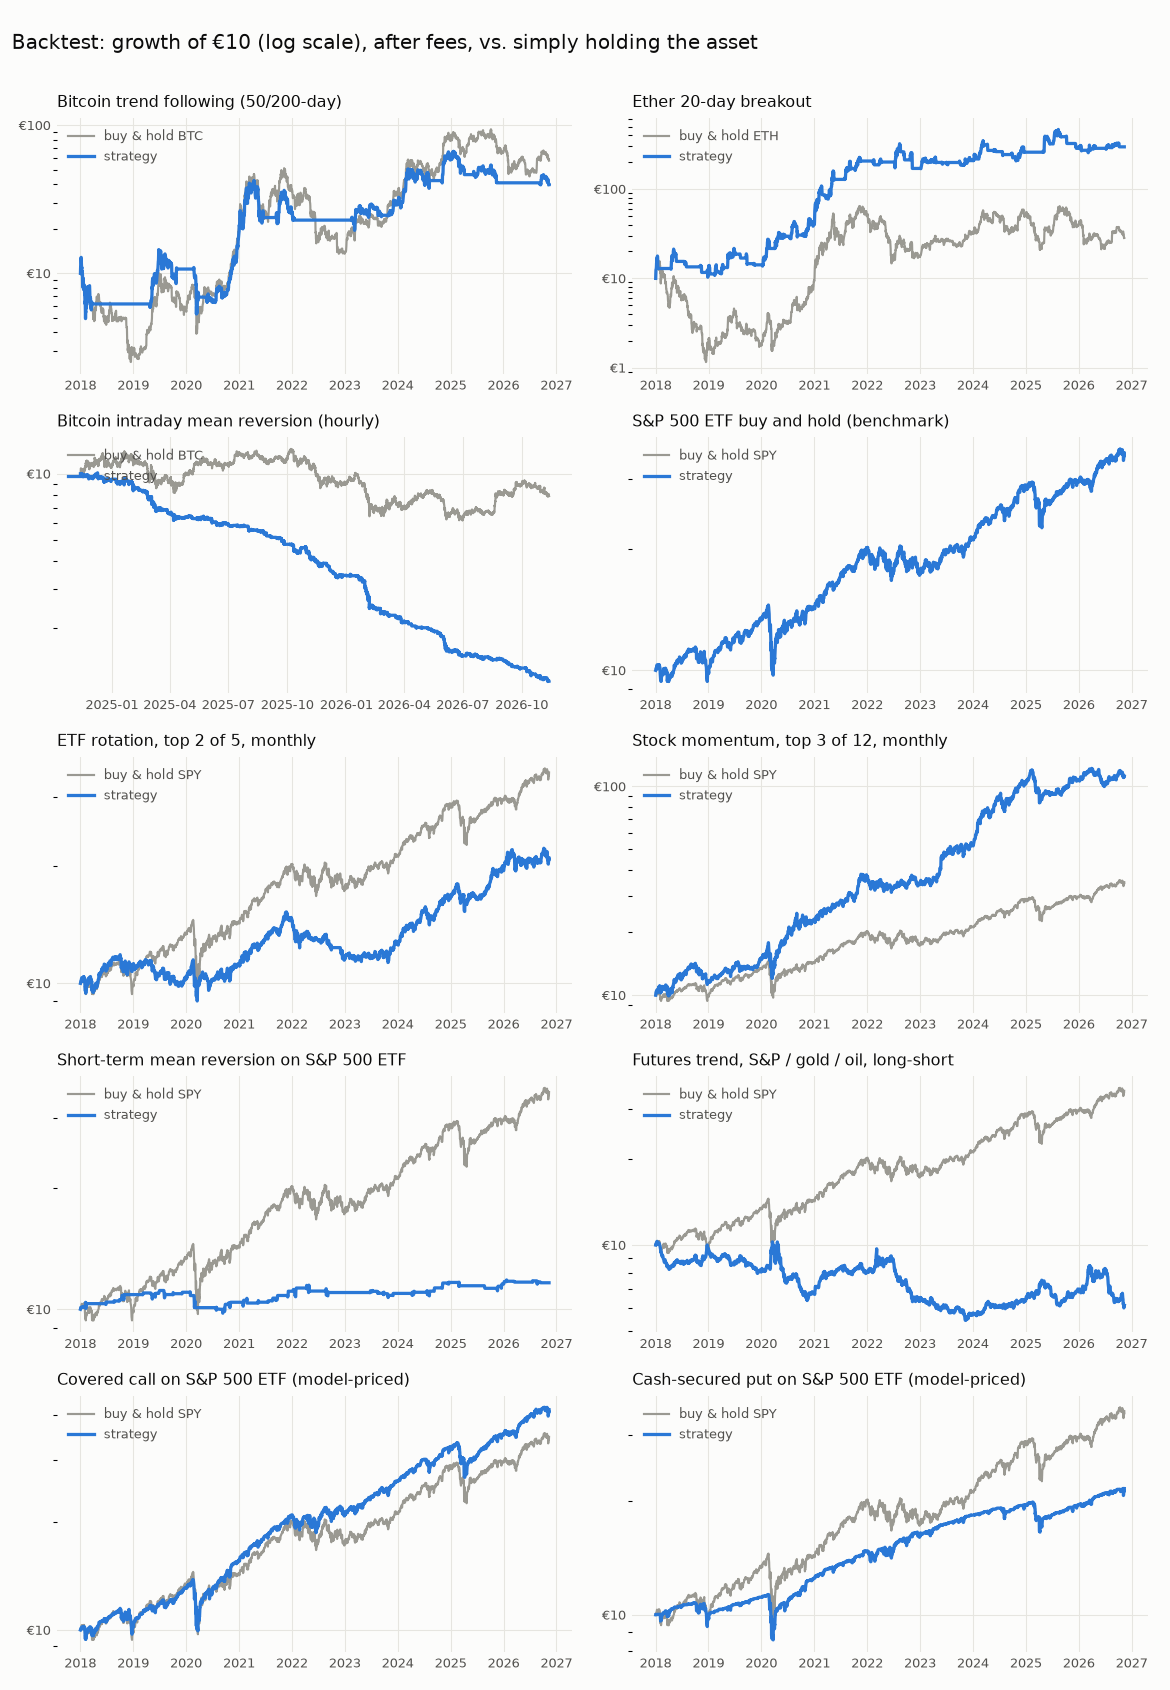
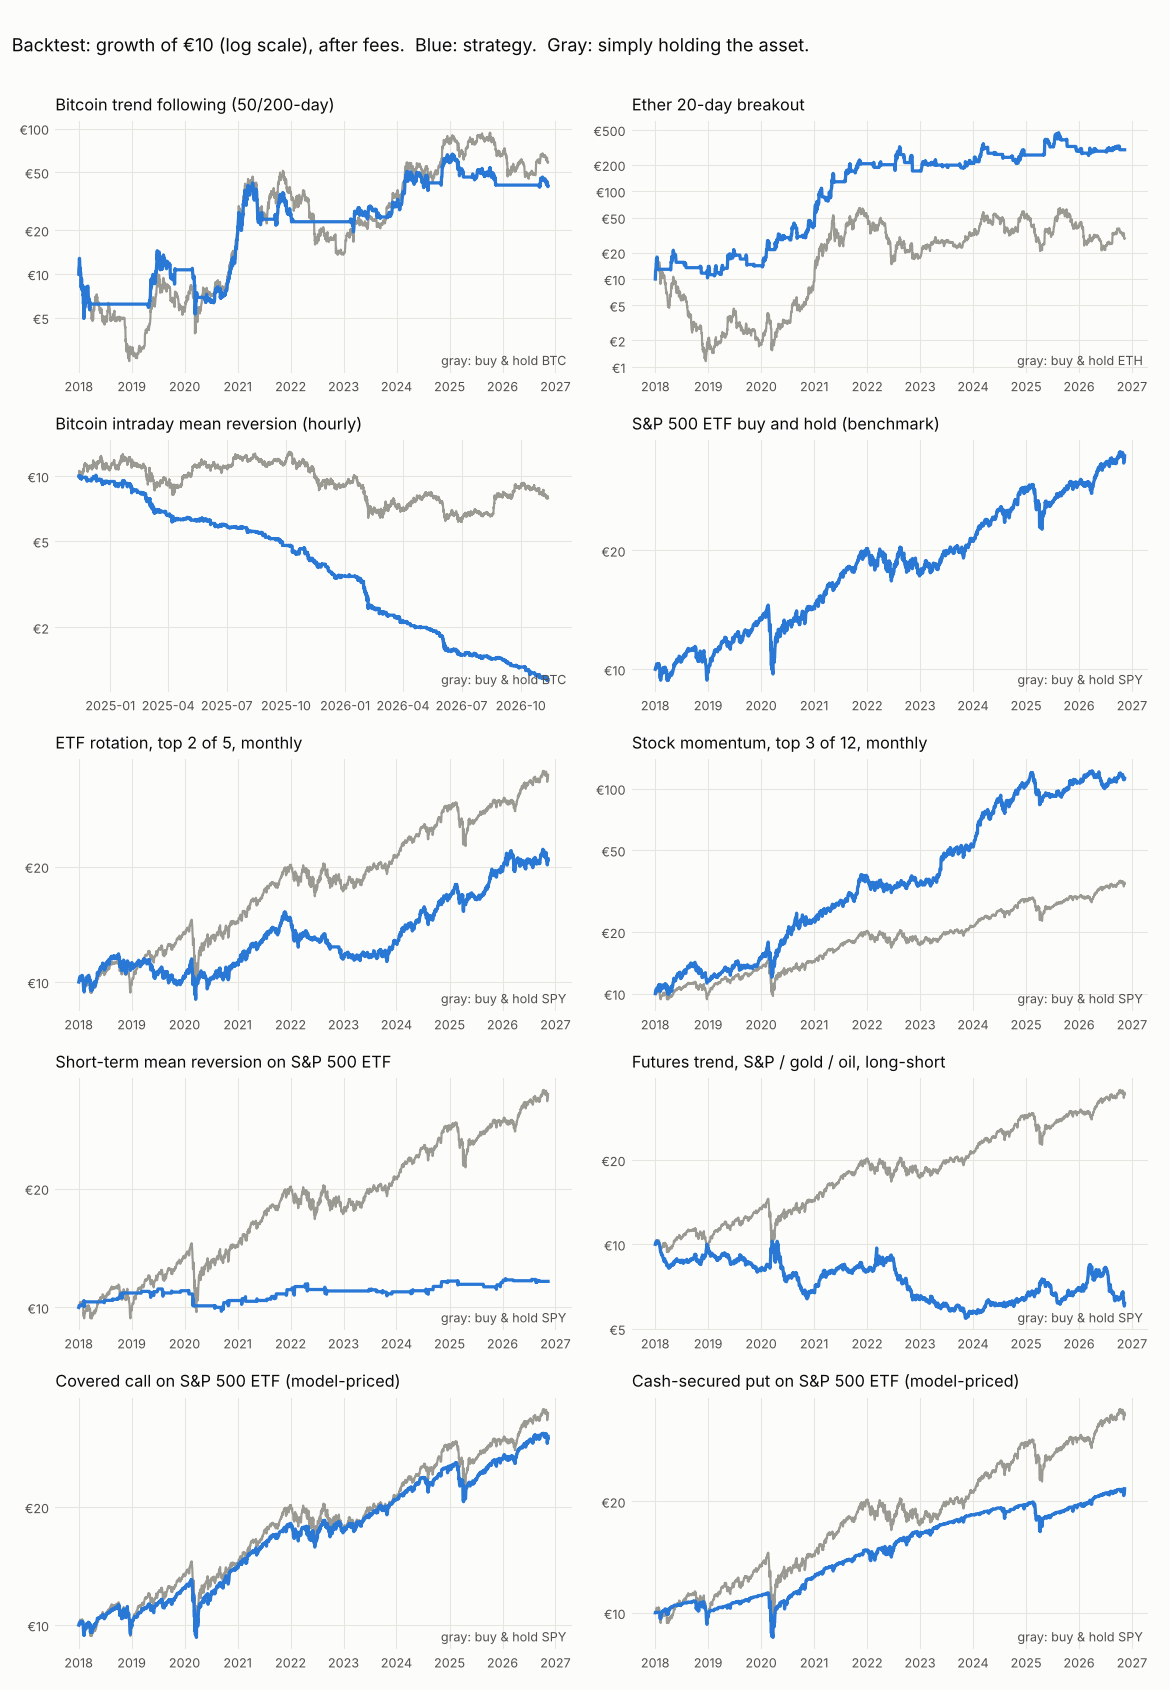
Do not act on unfinished bars; conservative option pricing; clearer charts
Claude-Session: https://claude.ai/code/session_01Dom5RbYEyKrPwT3mLM5TpC

diff --git a/lab/run.py b/lab/run.py
@@ -57,7 +57,7 @@ def evaluate(daily, hourly):
                "position": position, "bt_eq": bt_eq, "bench_eq": bench_eq}
         before = eq[eq.index < live_start]
         after = eq[eq.index >= live_start]
-        if len(before) and len(after):
+        if len(before):
             scale = START_CAPITAL / before.iloc[-1]
             live_eq = pd.concat([before.iloc[-1:], after]) * scale
             row["live_eq"] = live_eq
@@ -84,16 +84,18 @@ def charts(rows):
         ax.set_yscale("log")
         ax.set_title(r["name"], fontsize=9, color=INK, loc="left")
         ax.tick_params(labelsize=7, colors=MUTED, length=0)
+        ax.yaxis.set_major_locator(matplotlib.ticker.LogLocator(base=10, subs=(1, 2, 5), numticks=12))
         ax.yaxis.set_major_formatter(matplotlib.ticker.FuncFormatter(lambda v, _: f"€{v:g}"))
-        ax.yaxis.set_minor_formatter(matplotlib.ticker.NullFormatter())
+        ax.yaxis.set_minor_locator(matplotlib.ticker.NullLocator())
         ax.grid(True, which="major", color="#e6e5e0", lw=0.6)
         for s in ax.spines.values():
             s.set_visible(False)
-        ax.legend(fontsize=7, frameon=False, loc="upper left", labelcolor=MUTED)
+        ax.text(0.99, 0.03, f"gray: buy & hold {r['benchmark']}", transform=ax.transAxes, ha="right",
+                fontsize=7, color=MUTED)
     for ax in axes.ravel()[len(good):]:
         ax.axis("off")
-    fig.suptitle("Backtest: growth of €10 (log scale), after fees, vs. simply holding the asset",
-                 fontsize=11, color=INK, x=0.01, ha="left")
+    fig.suptitle("Backtest: growth of €10 (log scale), after fees.  Blue: strategy.  Gray: simply holding the asset.",
+                 fontsize=10, color=INK, x=0.01, ha="left")
     fig.tight_layout(rect=(0, 0, 1, 0.98))
     fig.savefig(os.path.join(ROOT, "charts", "backtest.png"), dpi=130)
     plt.close(fig)
@@ -158,7 +160,10 @@ def readme(rows, notes):
           "are already large, so the backtest only ever chooses among known winners.",
           "- **Options are model-priced.** There is no free historical options data, so strategies 9 and 10 "
           "use a pricing formula with the VIX index as volatility and a "
-          f"{COST['option_haircut'] * 100:.0f}% spread haircut. Real results would differ.",
+          f"{COST['option_haircut'] * 100:.0f}% spread haircut, plus a rough adjustment for calls. "
+          "The covered-call result in particular depends on that assumption; real covered-call funds "
+          "have lagged the index over this period. Do not read it as beating buy and hold.",
+          "- **Day trading loses to fees.** The hourly Bitcoin rule trades hundreds of times, and each trade pays the fee.",
           "- **Futures at €10 are not possible in reality.** One contract needs thousands of euros of margin. "
           "The simulation allows fractions to show how the rule behaves. Prices are front-month series with roll gaps.",
           "- **Real fees at this size would be worse.** Costs are modelled as a percentage "

diff --git a/lab/strategies.py b/lab/strategies.py
@@ -4,7 +4,7 @@ from __future__ import annotations
 import numpy as np
 import pandas as pd
 
-from .config import COST, FUTURES, ROTATION_ETFS, START_CAPITAL, STOCKS
+from .config import CALL_VOL_FACTOR, COST, FUTURES, PUT_VOL_FACTOR, ROTATION_ETFS, START_CAPITAL, STOCKS
 from .engine import changes_only, simulate, simulate_option_writer
 
 
@@ -114,12 +114,12 @@ def futures_trend(d):
 
 
 def covered_call(d):
-    return simulate_option_writer(d["SPY"], d["VIX"] / 100, "call", START_CAPITAL,
+    return simulate_option_writer(d["SPY"], d["VIX"] / 100 * CALL_VOL_FACTOR, "call", START_CAPITAL,
                                   COST["equity"], COST["option_haircut"])
 
 
 def cash_secured_put(d):
-    return simulate_option_writer(d["SPY"], d["VIX"] / 100, "put", START_CAPITAL,
+    return simulate_option_writer(d["SPY"], d["VIX"] / 100 * PUT_VOL_FACTOR, "put", START_CAPITAL,
                                   COST["equity"], COST["option_haircut"])
 
 

diff --git a/lab/data.py b/lab/data.py
@@ -83,5 +83,12 @@ def load():
             d[col] = raw[col] / fx
     price_cols = [c for c in d.columns if c != "EURUSD"]
     d[price_cols] = d[price_cols].where(d[price_cols] > 0)
+    # Never act on an unfinished bar: crypto days close at 00:00 UTC, US markets by about 21:30 UTC.
+    now = pd.Timestamp.now(tz="UTC").tz_localize(None)
+    today = now.normalize()
+    if today in d.index:
+        unfinished = [c for c in d.columns if c in ALREADY_EUR or now.hour * 60 + now.minute < 21 * 60 + 30]
+        d.loc[today, unfinished] = float("nan")
     hourly = _read(HOURLY)
+    hourly = hourly[hourly.index <= now.floor("h") - pd.Timedelta(hours=1)]
     return d, (hourly["BTC"] if "BTC" in hourly else pd.Series(dtype=float))

diff --git a/lab/config.py b/lab/config.py
@@ -27,3 +27,7 @@ COST = {
     "futures": 0.0005,
     "option_haircut": 0.05,  # share of the model premium lost to the bid/ask spread
 }
+# Options above the market price trade at lower implied volatility than the VIX index (the "skew").
+# Without this adjustment the model overpays the covered-call seller. Rough assumption, not data.
+CALL_VOL_FACTOR = 0.85
+PUT_VOL_FACTOR = 1.00

diff --git a/README.md b/README.md
@@ -2,34 +2,30 @@
 
 **Simulated money only.** Ten rule-based strategies, each starting with an imaginary €10 on 2026-11-12. No broker is connected and no real order is ever placed. This is an experiment, not investment advice.
 
-_Last updated: 2026-11-12 12:44 UTC. Updated automatically once a day by GitHub Actions._
+_Last updated: 2026-11-12 12:45 UTC. Updated automatically once a day by GitHub Actions._
 
 ## Live paper portfolio since 2026-11-12
 
-**€40.00 simulated → €39.85 (-0.4%)**
+**€100.00 simulated → €100.00 (+0.0%)**
 
 | # | Strategy | Type | €10 is now | Change | Holding now |
 |---|---|---|---|---|---|
-| 1 | Bitcoin trend following (50/200-day) | Crypto | €9.85 | -1.5% | BTC +100% |
+| 1 | Bitcoin trend following (50/200-day) | Crypto | €10.00 | +0.0% | BTC +100% |
 | 2 | Ether 20-day breakout | Crypto | €10.00 | +0.0% | cash |
-| 3 | Bitcoin intraday mean reversion (hourly) | Day trading | €9.97 | -0.3% | BTC +100% |
-| 4 | S&P 500 ETF buy and hold (benchmark) | ETF | n/a | n/a | waiting for data |
-| 5 | ETF rotation, top 2 of 5, monthly | ETF | n/a | n/a | waiting for data |
-| 6 | Stock momentum, top 3 of 12, monthly | Stocks | n/a | n/a | waiting for data |
-| 7 | Short-term mean reversion on S&P 500 ETF | ETF | n/a | n/a | waiting for data |
-| 8 | Futures trend, S&P / gold / oil, long-short | Futures | €10.03 | +0.3% | ES +33%, GC -33%, BZ +33% |
-| 9 | Covered call on S&P 500 ETF (model-priced) | Options | n/a | n/a | waiting for data |
-| 10 | Cash-secured put on S&P 500 ETF (model-priced) | Options | n/a | n/a | waiting for data |
+| 3 | Bitcoin intraday mean reversion (hourly) | Day trading | €10.00 | +0.0% | cash |
+| 4 | S&P 500 ETF buy and hold (benchmark) | ETF | €10.00 | +0.0% | SPY +100% |
+| 5 | ETF rotation, top 2 of 5, monthly | ETF | €10.00 | +0.0% | SPY +50%, EFA +50% |
+| 6 | Stock momentum, top 3 of 12, monthly | Stocks | €10.00 | +0.0% | AAPL +35%, MSFT +34%, XOM +31% |
+| 7 | Short-term mean reversion on S&P 500 ETF | ETF | €10.00 | +0.0% | cash |
+| 8 | Futures trend, S&P / gold / oil, long-short | Futures | €10.00 | +0.0% | ES +33%, GC -33%, BZ -33% |
+| 9 | Covered call on S&P 500 ETF (model-priced) | Options | €10.00 | +0.0% | shares + short call, strike 693.90, 20 trading days left |
+| 10 | Cash-secured put on S&P 500 ETF (model-priced) | Options | €10.00 | +0.0% | cash + short put, strike 666.68, 20 trading days left |
 
 A strategy starts in whatever position its rule already held on the start date. A few days of results say nothing; judge this over months.
 
 ### Latest simulated trades
 
-| Time (UTC) | Strategy | Action | Asset | Value | Fee |
-|---|---|---|---|---|---|
-| 2026-11-12 12:00 | Bitcoin intraday mean reversion (hourly) | BUY | BTC | €9.97 | €0.0299 |
-| 2026-11-12 00:00 | Futures trend, S&P / gold / oil, long-short | SELL | GC | €0.03 | €0.0000 |
-| 2026-11-12 00:00 | Futures trend, S&P / gold / oil, long-short | BUY | BZ | €6.68 | €0.0033 |
+No trades yet since the start date.
 
 ## Backtest: what these rules would have done in the past
 
@@ -37,15 +33,15 @@ Fees and slippage are included. "Hold" is what simply buying the same asset and 
 
 | # | Strategy | Period | Total | Per year | Worst drop | Sharpe | Hold: total | Hold: worst drop | Trades | Fees per €10 |
 |---|---|---|---|---|---|---|---|---|---|---|
-| 1 | Bitcoin trend following (50/200-day) | 2018-01-01 → 2026-11-12 | +296.6% | +16.8% | -63.3% | 0.57 | +477.7% | -80.4% | 18 | €1.35 |
-| 2 | Ether 20-day breakout | 2018-01-01 → 2026-11-12 | +2865.7% | +46.6% | -51.5% | 0.99 | +183.3% | -93.5% | 127 | €62.24 |
-| 3 | Bitcoin intraday mean reversion (hourly) | 2024-11-13 → 2026-11-12 | -88.5% | -66.2% | -88.7% | -4.65 | -20.9% | -52.6% | 705 | €9.59 |
+| 1 | Bitcoin trend following (50/200-day) | 2018-01-01 → 2026-11-11 | +302.5% | +17.0% | -63.3% | 0.57 | +486.2% | -80.4% | 18 | €1.35 |
+| 2 | Ether 20-day breakout | 2018-01-01 → 2026-11-11 | +2865.7% | +46.6% | -51.5% | 0.99 | +188.0% | -93.5% | 127 | €62.24 |
+| 3 | Bitcoin intraday mean reversion (hourly) | 2024-11-13 → 2026-11-12 | -88.5% | -66.2% | -88.7% | -4.65 | -20.9% | -52.6% | 704 | €9.58 |
 | 4 | S&P 500 ETF buy and hold (benchmark) | 2018-01-02 → 2026-11-11 | +247.2% | +15.1% | -33.1% | 0.80 | +247.2% | -33.1% | 0 | €0.00 |
 | 5 | ETF rotation, top 2 of 5, monthly | 2018-01-02 → 2026-11-11 | +109.4% | +8.7% | -25.8% | 0.58 | +247.2% | -33.1% | 236 | €0.56 |
 | 6 | Stock momentum, top 3 of 12, monthly | 2018-01-02 → 2026-11-11 | +1018.5% | +31.3% | -32.6% | 1.13 | +247.2% | -33.1% | 392 | €3.22 |
 | 7 | Short-term mean reversion on S&P 500 ETF | 2018-01-02 → 2026-11-11 | +16.4% | +1.7% | -12.2% | 0.31 | +247.2% | -33.1% | 128 | €1.40 |
-| 8 | Futures trend, S&P / gold / oil, long-short | 2018-01-02 → 2026-11-12 | -38.4% | -5.3% | -47.2% | -0.22 | +247.2% | -33.1% | 1053 | €1.03 |
-| 9 | Covered call on S&P 500 ETF (model-priced) | 2018-01-02 → 2026-11-11 | +313.5% | +17.4% | -28.1% | 1.07 | +247.2% | -33.1% | 214 | €1.59 |
+| 8 | Futures trend, S&P / gold / oil, long-short | 2018-01-02 → 2026-11-11 | -38.6% | -5.4% | -47.2% | -0.22 | +247.2% | -33.1% | 1051 | €1.02 |
+| 9 | Covered call on S&P 500 ETF (model-priced) | 2018-01-02 → 2026-11-11 | +202.8% | +13.3% | -28.8% | 0.85 | +247.2% | -33.1% | 214 | €1.03 |
 | 10 | Cash-secured put on S&P 500 ETF (model-priced) | 2018-01-02 → 2026-11-11 | +116.4% | +9.1% | -24.2% | 0.75 | +247.2% | -33.1% | 214 | €1.11 |
 
 ![Backtest charts](charts/backtest.png)
@@ -54,7 +50,8 @@ Fees and slippage are included. "Hold" is what simply buying the same asset and 
 
 - **Past results do not predict future results.** A rule that worked in a backtest often stops working.
 - **Stock momentum is flattered by hindsight.** Its 12 stocks were picked today from companies that are already large, so the backtest only ever chooses among known winners.
-- **Options are model-priced.** There is no free historical options data, so strategies 9 and 10 use a pricing formula with the VIX index as volatility and a 5% spread haircut. Real results would differ.
+- **Options are model-priced.** There is no free historical options data, so strategies 9 and 10 use a pricing formula with the VIX index as volatility and a 5% spread haircut, plus a rough adjustment for calls. The covered-call result in particular depends on that assumption; real covered-call funds have lagged the index over this period. Do not read it as beating buy and hold.
+- **Day trading loses to fees.** The hourly Bitcoin rule trades hundreds of times, and each trade pays the fee.
 - **Futures at €10 are not possible in reality.** One contract needs thousands of euros of margin. The simulation allows fractions to show how the rule behaves. Prices are front-month series with roll gaps.
 - **Real fees at this size would be worse.** Costs are modelled as a percentage (0.30% crypto, 0.10% stocks/ETFs, 0.05% futures per trade). A flat €1 broker fee on a €10 order is 10%.
 - **Currency:** US assets are converted to euros with the daily EUR/USD rate, so results include currency moves.
